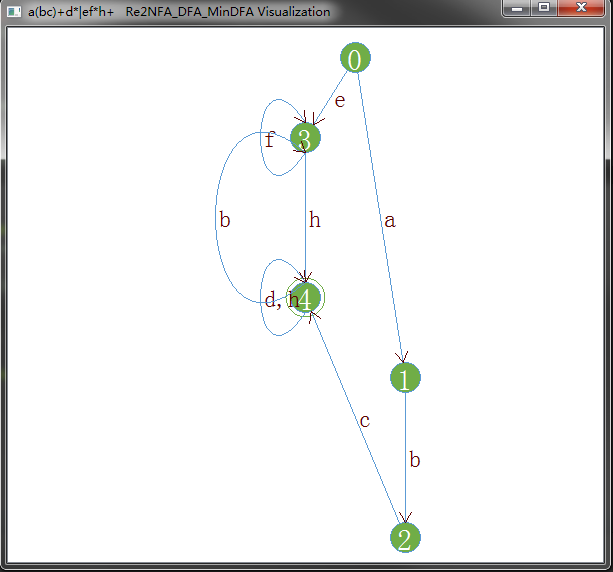
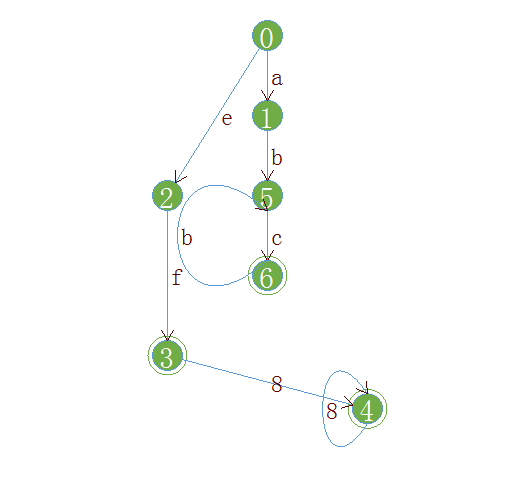
optimize

diff --git a/visualize.py b/visualize.py
@@ -414,7 +414,7 @@ if __name__ == "__main__":
     oldpwd = os.getcwd()
     os.chdir(wkpath)
     binpath = os.path.join(os.path.abspath(wkpath), "bin")
-    restr = "a(bc)+d*|ef*h+"
+    restr = "a(bc)+|ef8*"
     if len(sys.argv) > 1:
         restr = sys.argv[1]
     binpath = os.path.join(binpath, "Re2DFA")

diff --git a/README.md b/README.md
@@ -1,6 +1,7 @@
 # Re2NFA_DFA_Visualization
 Convert `Regular Expression` to `NFA`, `DFA`, `Minimum DFA` and visualize `NFA`, `DFA`, `Minimum DFA`.
 #Sample
+####Visualization of Regular Expression `"a(bc)+|ef8*"`
 ![alt text][logo]
 
 [logo]: https://raw.githubusercontent.com/cyanmoon/Re2NFA_DFA_Visualization/master/sample.png "Sample"
